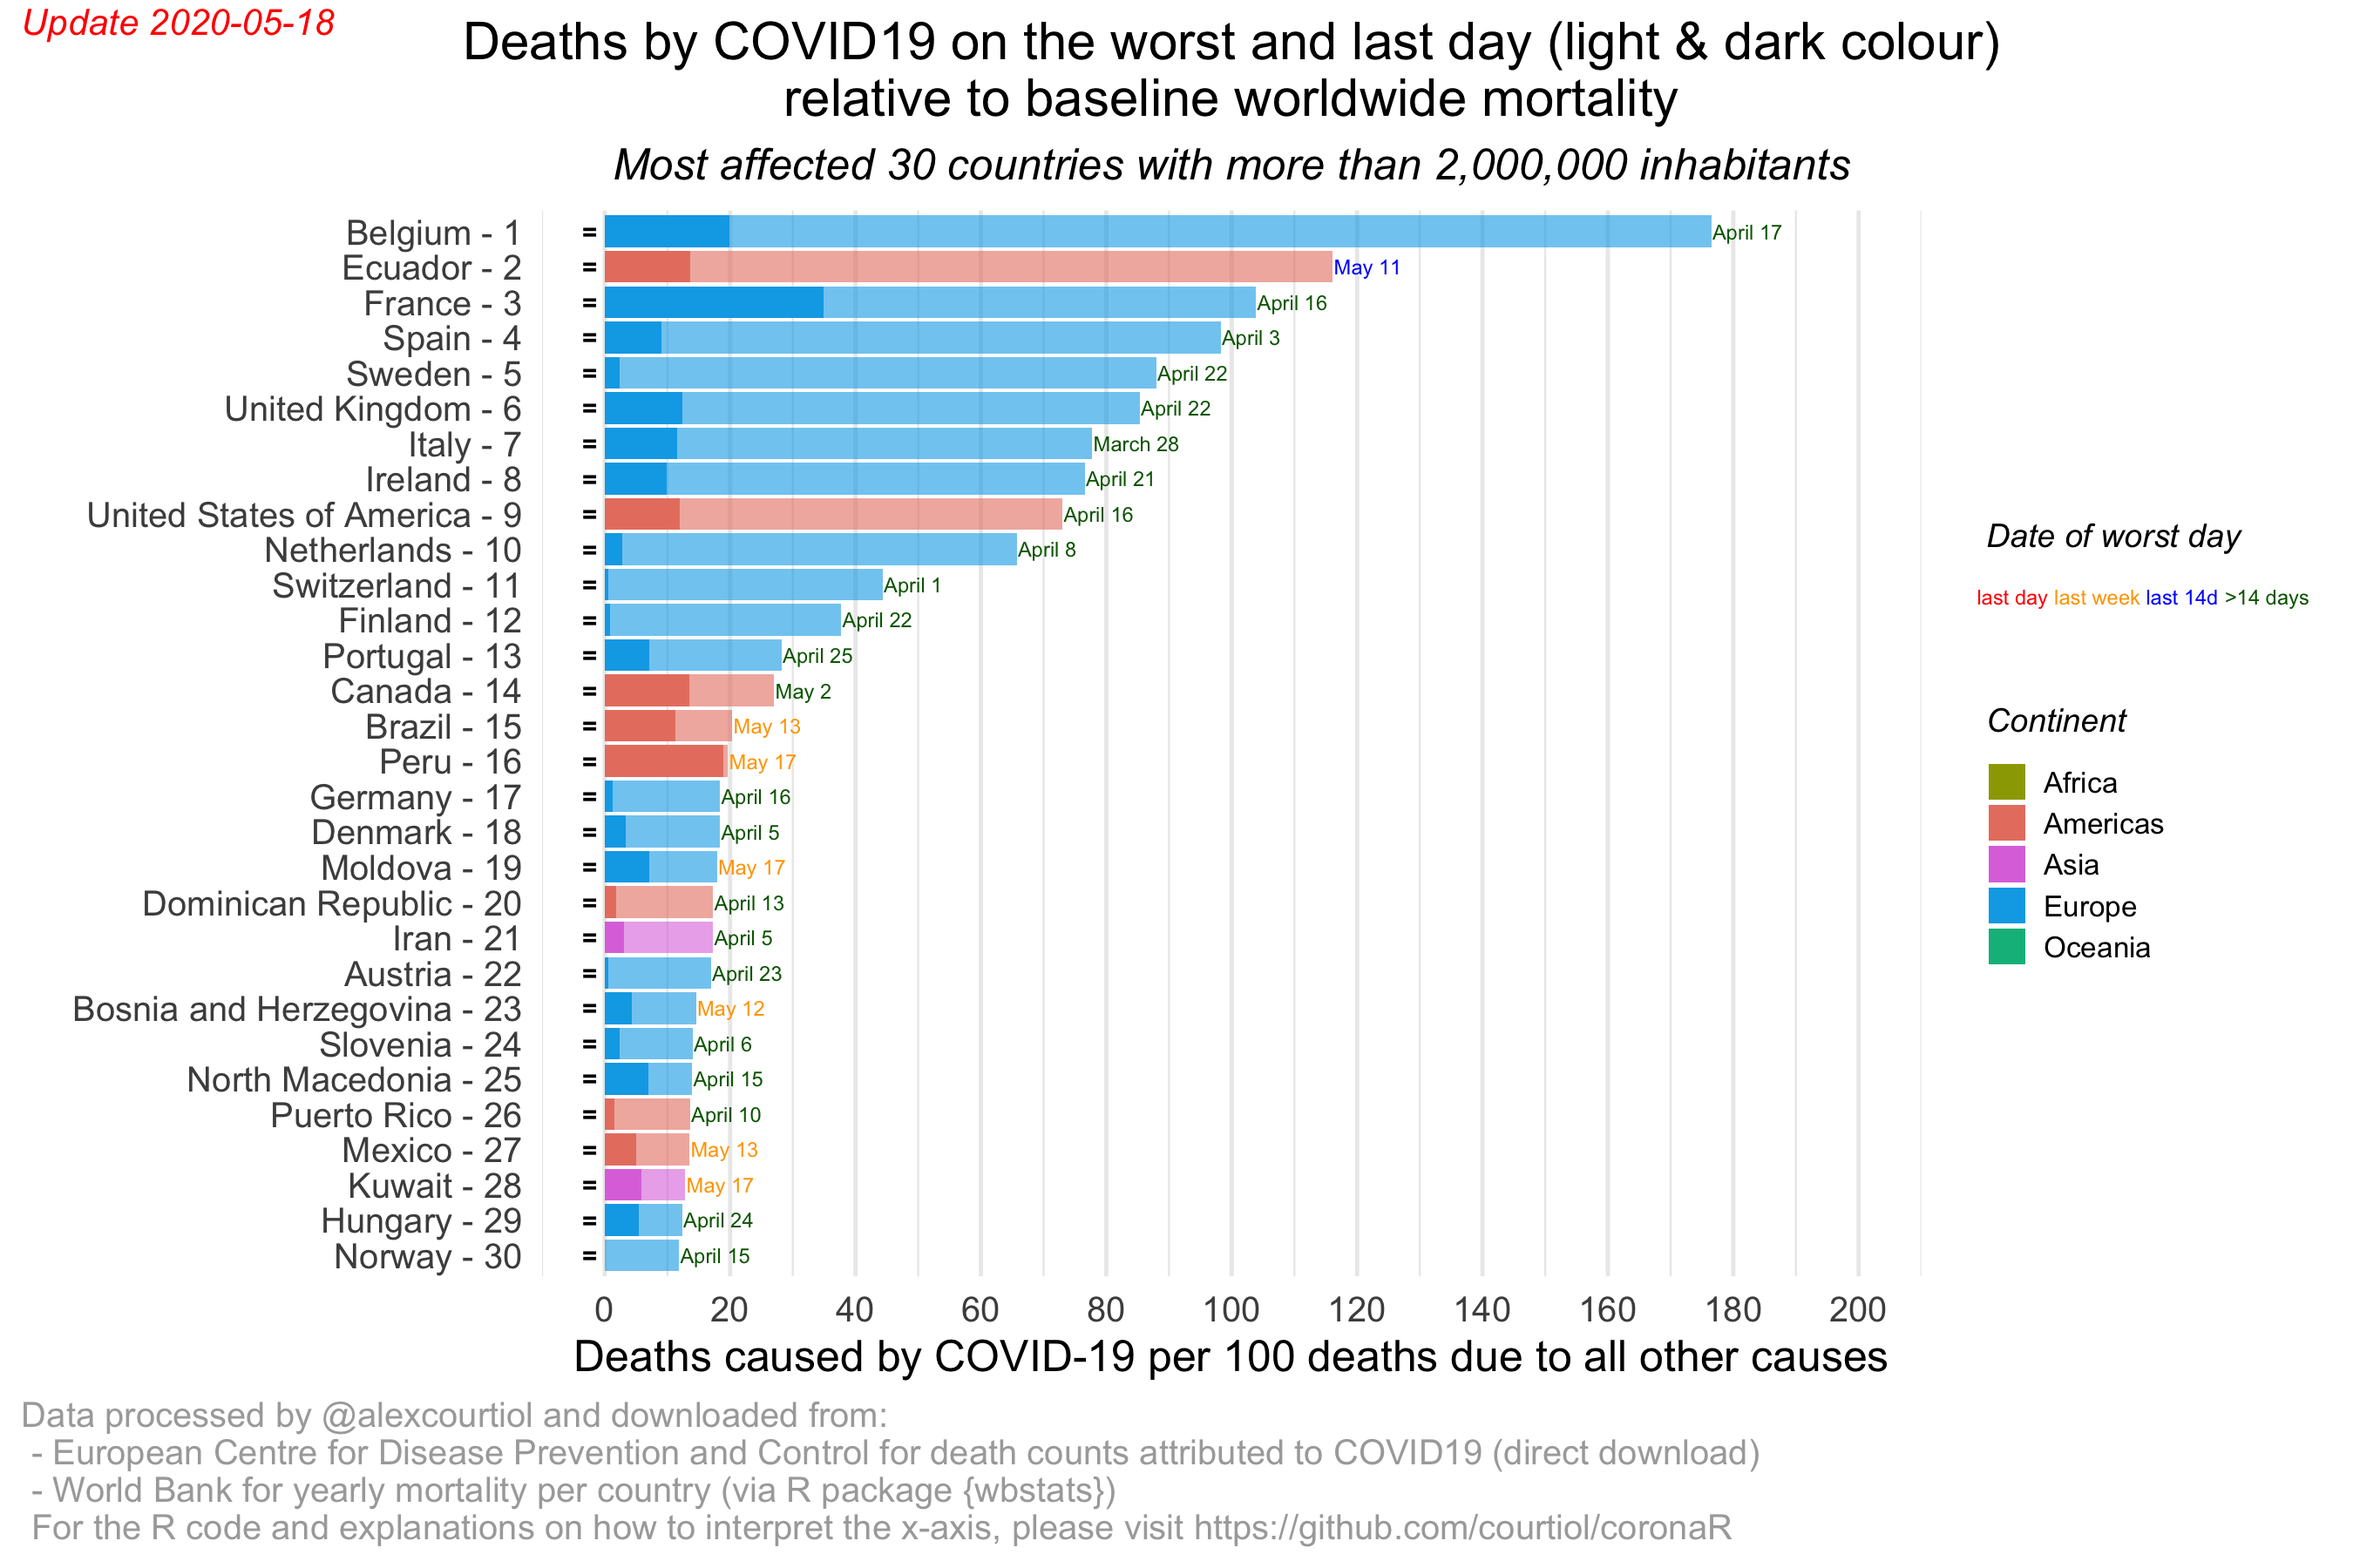
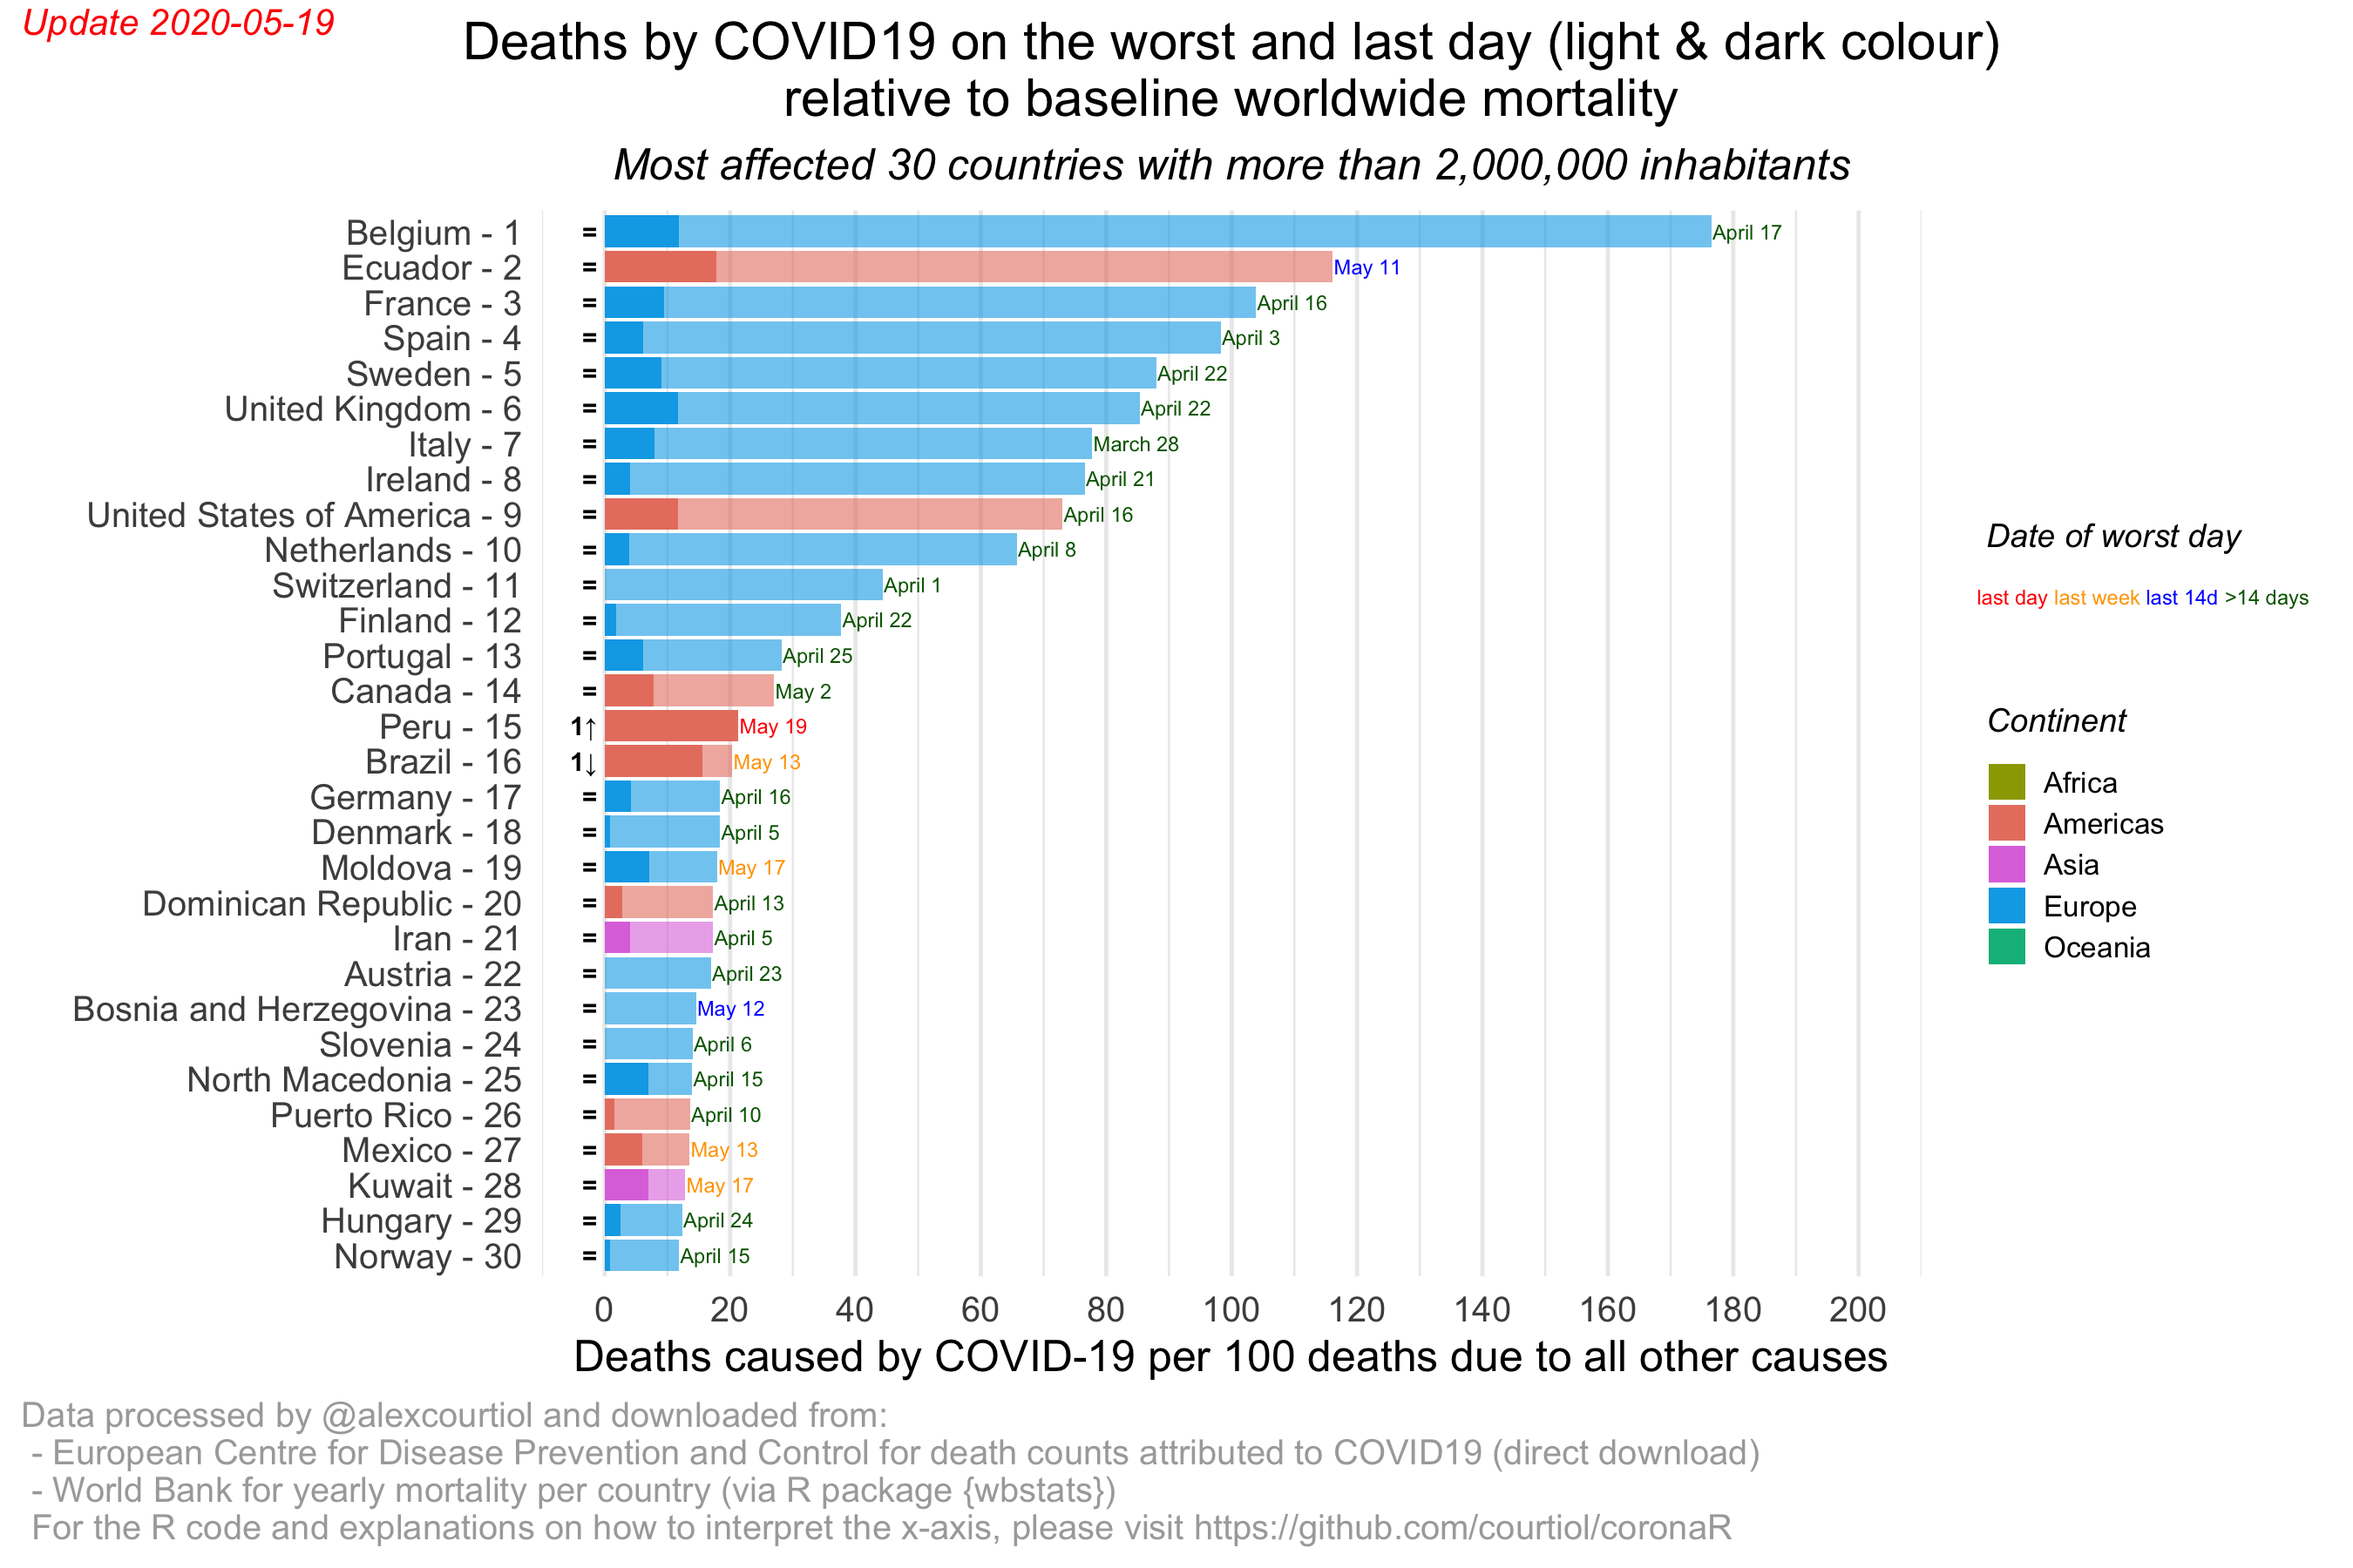
Update 20200519

diff --git a/README.md b/README.md
@@ -95,23 +95,23 @@ library(coronaR)
 today <- Sys.Date() ## note: you can change the date, to rebuild plots retrospectively
 data_COVID <- prepare_data_ECDC(path_save_data = "~/Downloads/COVID19",
                                 date_of_report = today)
-#> The source of the COVID data have been stored in~/Downloads/COVID19/COVID-19-geographic-disbtribution-worldwide-2020-05-18.xlsx!
+#> The source of the COVID data have been stored in~/Downloads/COVID19/COVID-19-geographic-disbtribution-worldwide-2020-05-19.xlsx!
 #> Warning in countrycode::countrycode(.data$iso2c, origin = "iso2c", destination = "continent"): Some values were not matched unambiguously: XK
 data_COVID
-#> # A tibble: 18,340 x 9
+#> # A tibble: 18,550 x 9
 #>    country iso2c continent date_report date_report_last cases deaths_daily
 #>    <chr>   <chr> <fct>     <date>      <date>           <dbl>        <dbl>
-#>  1 Afghan… AF    Asia      2020-05-18  2020-05-18         262            1
-#>  2 Afghan… AF    Asia      2020-05-17  2020-05-18           0            0
-#>  3 Afghan… AF    Asia      2020-05-16  2020-05-18        1063           32
-#>  4 Afghan… AF    Asia      2020-05-15  2020-05-18         113            6
-#>  5 Afghan… AF    Asia      2020-05-14  2020-05-18         259            3
-#>  6 Afghan… AF    Asia      2020-05-13  2020-05-18         280            5
-#>  7 Afghan… AF    Asia      2020-05-12  2020-05-18         285            2
-#>  8 Afghan… AF    Asia      2020-05-11  2020-05-18         369            5
-#>  9 Afghan… AF    Asia      2020-05-10  2020-05-18         255            6
-#> 10 Afghan… AF    Asia      2020-05-09  2020-05-18         215            3
-#> # … with 18,330 more rows, and 2 more variables: deaths_cumul <dbl>,
+#>  1 Afghan… AF    Asia      2020-05-19  2020-05-19         408            4
+#>  2 Afghan… AF    Asia      2020-05-18  2020-05-19         262            1
+#>  3 Afghan… AF    Asia      2020-05-17  2020-05-19           0            0
+#>  4 Afghan… AF    Asia      2020-05-16  2020-05-19        1063           32
+#>  5 Afghan… AF    Asia      2020-05-15  2020-05-19         113            6
+#>  6 Afghan… AF    Asia      2020-05-14  2020-05-19         259            3
+#>  7 Afghan… AF    Asia      2020-05-13  2020-05-19         280            5
+#>  8 Afghan… AF    Asia      2020-05-12  2020-05-19         285            2
+#>  9 Afghan… AF    Asia      2020-05-11  2020-05-19         369            5
+#> 10 Afghan… AF    Asia      2020-05-10  2020-05-19         255            6
+#> # … with 18,540 more rows, and 2 more variables: deaths_cumul <dbl>,
 #> #   date_first_10_cumul_deaths <date>
   
 ## NOTE: the following Warning is expected:
@@ -289,32 +289,32 @@ full_data <- merge_datasets(data_ECDC = data_COVID,
 
 ``` r
 str(full_data)
-#> tibble [13,715 × 24] (S3: tbl_df/tbl/data.frame)
-#>  $ country                         : chr [1:13715] "Afghanistan" "Afghanistan" "Afghanistan" "Afghanistan" ...
+#> tibble [13,859 × 24] (S3: tbl_df/tbl/data.frame)
+#>  $ country                         : chr [1:13859] "Afghanistan" "Afghanistan" "Afghanistan" "Afghanistan" ...
 #>  $ continent                       : Factor w/ 5 levels "Africa","Americas",..: 3 3 3 3 3 3 3 3 3 3 ...
-#>  $ date_report                     : Date[1:13715], format: "2020-05-18" "2020-05-17" ...
-#>  $ date_report_last                : Date[1:13715], format: "2020-05-18" "2020-05-18" ...
-#>  $ cases                           : num [1:13715] 262 0 1063 113 259 ...
-#>  $ deaths_daily                    : num [1:13715] 1 0 32 6 3 5 2 5 6 3 ...
-#>  $ deaths_cumul                    : num [1:13715] 169 168 168 136 130 127 122 120 115 109 ...
-#>  $ date_first_10_cumul_deaths      : Date[1:13715], format: "2020-04-08" "2020-04-08" ...
-#>  $ year_mortality                  : num [1:13715] 2018 2018 2018 2018 2018 ...
-#>  $ total_death_year                : num [1:13715] 238758 238758 238758 238758 238758 ...
-#>  $ total_death_day                 : num [1:13715] 654 654 654 654 654 ...
-#>  $ total_death_year_world          : num [1:13715] 56650926 56650926 56650926 56650926 56650926 ...
-#>  $ total_death_day_world           : num [1:13715] 155208 155208 155208 155208 155208 ...
-#>  $ country_pop                     : num [1:13715] 37172386 37172386 37172386 37172386 37172386 ...
-#>  $ world_pop                       : num [1:13715] 7.51e+09 7.51e+09 7.51e+09 7.51e+09 7.51e+09 ...
-#>  $ days_since_first_10_cumul_deaths: 'difftime' num [1:13715] 40 39 38 37 ...
+#>  $ date_report                     : Date[1:13859], format: "2020-05-19" "2020-05-18" ...
+#>  $ date_report_last                : Date[1:13859], format: "2020-05-19" "2020-05-19" ...
+#>  $ cases                           : num [1:13859] 408 262 0 1063 113 ...
+#>  $ deaths_daily                    : num [1:13859] 4 1 0 32 6 3 5 2 5 6 ...
+#>  $ deaths_cumul                    : num [1:13859] 173 169 168 168 136 130 127 122 120 115 ...
+#>  $ date_first_10_cumul_deaths      : Date[1:13859], format: "2020-04-08" "2020-04-08" ...
+#>  $ year_mortality                  : num [1:13859] 2018 2018 2018 2018 2018 ...
+#>  $ total_death_year                : num [1:13859] 238758 238758 238758 238758 238758 ...
+#>  $ total_death_day                 : num [1:13859] 654 654 654 654 654 ...
+#>  $ total_death_year_world          : num [1:13859] 56650926 56650926 56650926 56650926 56650926 ...
+#>  $ total_death_day_world           : num [1:13859] 155208 155208 155208 155208 155208 ...
+#>  $ country_pop                     : num [1:13859] 37172386 37172386 37172386 37172386 37172386 ...
+#>  $ world_pop                       : num [1:13859] 7.51e+09 7.51e+09 7.51e+09 7.51e+09 7.51e+09 ...
+#>  $ days_since_first_10_cumul_deaths: 'difftime' num [1:13859] 41 40 39 38 ...
 #>   ..- attr(*, "units")= chr "days"
-#>  $ extra_mortality_daily_country   : num [1:13715] 0.153 0 4.892 0.917 0.459 ...
-#>  $ extra_mortality_cumul_country   : num [1:13715] 0.597 0.608 0.623 0.511 0.5 ...
-#>  $ country_weight                  : num [1:13715] 0.00495 0.00495 0.00495 0.00495 0.00495 ...
-#>  $ extra_mortality_daily_world     : num [1:13715] 0.13 0 4.166 0.781 0.391 ...
-#>  $ extra_mortality_cumul_world     : num [1:13715] 0.508 0.517 0.531 0.435 0.426 ...
-#>  $ extra_mortality                 : num [1:13715] 4.89 4.89 4.89 1.99 1.99 ...
-#>  $ date                            : Date[1:13715], format: "2020-05-16" "2020-05-16" ...
-#>  $ days_since_date                 : 'difftime' num [1:13715] 2 2 2 2 ...
+#>  $ extra_mortality_daily_country   : num [1:13859] 0.611 0.153 0 4.892 0.917 ...
+#>  $ extra_mortality_cumul_country   : num [1:13859] 0.597 0.597 0.608 0.623 0.511 ...
+#>  $ country_weight                  : num [1:13859] 0.00495 0.00495 0.00495 0.00495 0.00495 ...
+#>  $ extra_mortality_daily_world     : num [1:13859] 0.521 0.13 0 4.166 0.781 ...
+#>  $ extra_mortality_cumul_world     : num [1:13859] 0.508 0.508 0.517 0.531 0.435 ...
+#>  $ extra_mortality                 : num [1:13859] 4.89 4.89 4.89 4.89 1.99 ...
+#>  $ date                            : Date[1:13859], format: "2020-05-16" "2020-05-16" ...
+#>  $ days_since_date                 : 'difftime' num [1:13859] 3 3 3 3 ...
 #>   ..- attr(*, "units")= chr "days"
 ```
 
@@ -394,7 +394,7 @@ devtools::session_info()
 #>  collate  en_US.UTF-8                 
 #>  ctype    en_US.UTF-8                 
 #>  tz       Europe/Berlin               
-#>  date     2020-05-18                  
+#>  date     2020-05-19                  
 #> 
 #> ─ Packages ───────────────────────────────────────────────────────────────────
 #>  package     * version    date       lib source                            
